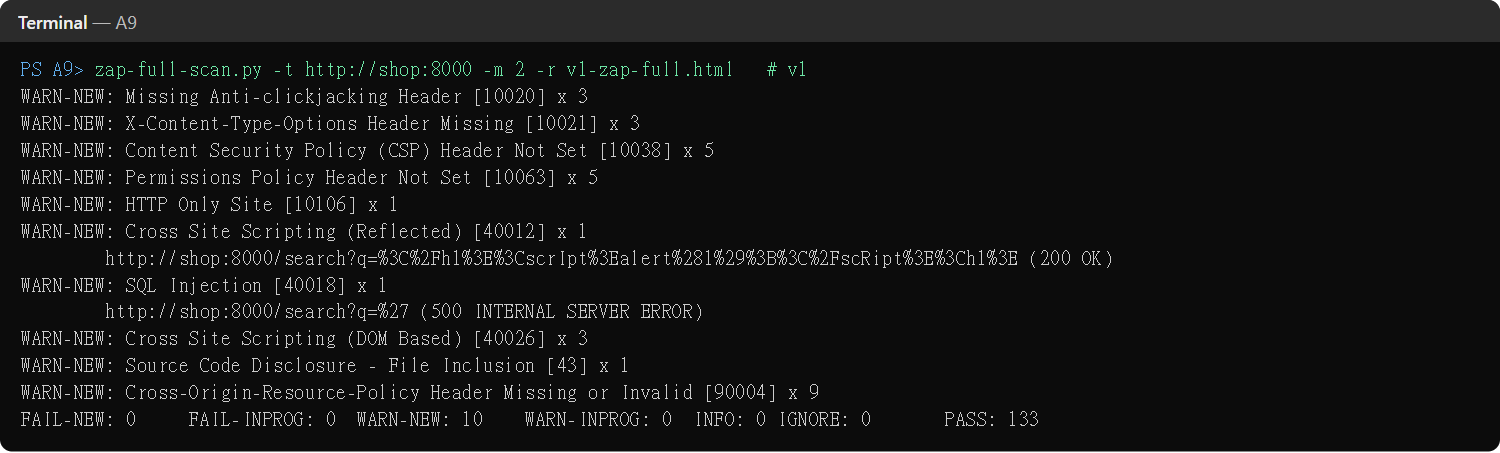
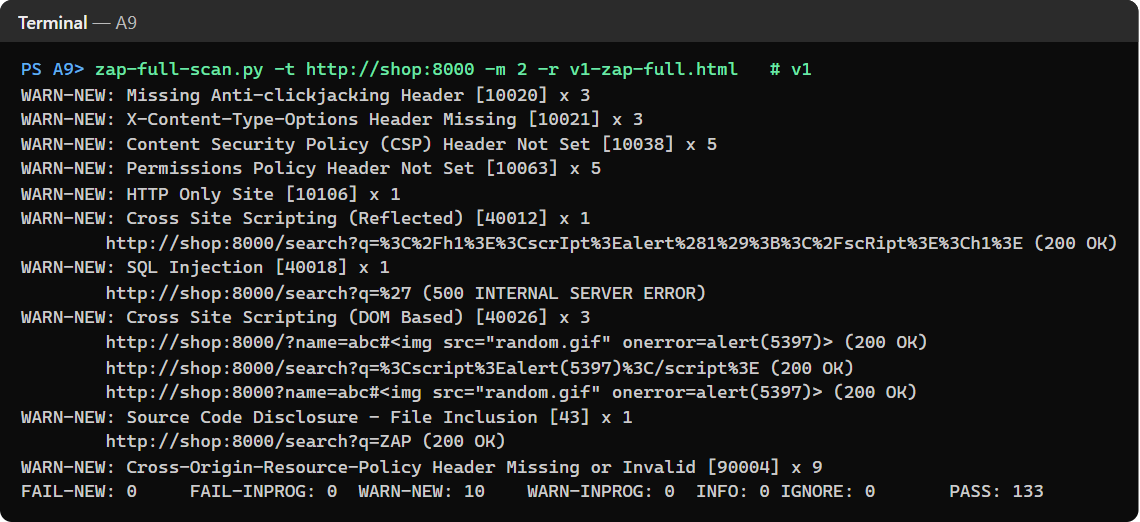
Fix report review points: ZAP and Trivy counts, figures
- Explain all four ZAP High alerts (DOM XSS shares the reflected XSS
  root cause; File Inclusion is a documented false positive) and why
  the report shows 13 alerts but the console 10 WARN-NEW rules.
- Account for the 30 new Trivy alerts behind 506 closed + 186 open.
- Number figures in reading order and fill in references at build time.
- Print terminal captures at readable size, show raw Trivy output
  instead of the JSON summary, crop the PR list and ZAP report.
- Describe the pipeline as 4 gates plus a DAST report job; match the
  YAML excerpt to the workflow (if: always(), separate Trivy gate).

diff --git a/build/build_pdf.py b/build/build_pdf.py
@@ -6,6 +6,7 @@ import subprocess
 import sys
 
 import markdown
+from PIL import Image
 
 HERE = pathlib.Path(__file__).resolve().parent
 SRC = HERE / "report.md"
@@ -35,16 +36,28 @@ table { border-collapse: collapse; width: 100%; margin: 5pt 0 8pt; font-size: 8.
 th, td { border: 1px solid #c8c8c8; padding: 3pt 5pt; vertical-align: top; text-align: left; }
 th { background: #eef1f4; }
 figure { margin: 6pt 0 10pt; text-align: center; break-inside: avoid; }
-figure img { max-width: 100%; max-height: 68mm; border: 1px solid #ccc; }
+figure img { max-width: 100%; max-height: 60mm; border: 1px solid #ccc; }
+figure img.term { width: 100%; max-height: none; border: 0; }
+figure.termfig { max-width: 100%; margin-left: auto; margin-right: auto; }
+.wide img { max-height: 98mm; }
 .pair { display: flex; gap: 6mm; align-items: flex-start; break-inside: avoid; }
 .pair figure { flex: 1 1 0; min-width: 0; }
-.pair figure img { max-height: 70mm; }
+.side { display: flex; gap: 6mm; align-items: flex-start; break-inside: avoid; margin: 3pt 0 8pt; }
+.side > p { flex: 1 1 0; margin: 0; }
+.side figure { flex: 1.4 1 0; margin: 0; }
+.pair figure.termfig { flex: 0 1 auto; margin: 6pt 0 10pt; }
+.pair figure img { max-height: 57mm; }
 figcaption { font-size: 8.3pt; color: #555; margin-top: 2pt; }
 .meta { color: #333; margin-bottom: 8pt; }
 """
 
 # Sections that start on a new page (by heading text prefix).
 NEW_PAGE = ()
+
+# Screenshots rendered by render_term.py from saved command output.
+# Small screenshots that need less than the default figure height.
+HEIGHTS = {"O1-actions-v1-fail": "50mm", "O1-codescanning-semgrep": "50mm", "E-dependabot-prs-2col": "82mm", "O2-zap-report-v1-crop": "40mm", "O1-trivy-action-pr": "52mm", "O1-actions-v2-pass": "46mm", "O1-codescanning-closed": "46mm"}
+TERMINALS = {"A-flake8", "O1-hadolint-trivy-config", "O1-trivy-raw", "O2-zap-v1", "O2-zap-v2"}
 
 
 def main() -> int:
@@ -54,26 +67,42 @@ def main() -> int:
     )
 
     n = {"fig": 0}
+    numbers = {}  # image stem -> figure number, for "Figure {stem}" references in the text
 
     def to_figure(m: re.Match) -> str:
         n["fig"] += 1
-        alt = html.unescape(m.group("alt"))
+        numbers[pathlib.Path(m.group("src")).stem] = n["fig"]
+        alt, src = html.unescape(m.group("alt")), m.group("src")
+        fig, cls = "<figure>", ""
+        if pathlib.Path(src).stem in TERMINALS:
+            # terminal captures: print at 90% of their natural size (captured at 1.5x), so the text stays ~8pt
+            fig = f'<figure class="termfig" style="width:{Image.open(HERE / src).width / 1.5 * 0.9:.0f}px">'
+            cls = ' class="term"'
+        elif pathlib.Path(src).stem in HEIGHTS:
+            cls = f' style="max-height:{HEIGHTS[pathlib.Path(src).stem]}"'
         return (
-            f'<figure><img src="{m.group("src")}" alt="{html.escape(alt)}">'
+            f'{fig}<img src="{src}" alt="{html.escape(alt)}"{cls}>'
             f"<figcaption>Figure {n['fig']}. {html.escape(alt)}</figcaption></figure>"
         )
 
     img = r'<img alt="(?P<alt>[^"]*)" src="(?P<src>[^"]+)"\s*/?>'
-    # two images in one paragraph -> side by side
-    body = re.sub(r"<p>(<img [^>]+>)\s*(<img [^>]+>)</p>",
-                  lambda m: '<div class="pair">' + re.sub(img, to_figure, m.group(1)) + re.sub(img, to_figure, m.group(2))
-                  + "</div>", body)
-    body = re.sub(r"<p>" + img + r"</p>", to_figure, body)
+    # one pass over the document, so figures are numbered in reading order;
+    # two images in one paragraph are placed side by side
+    # a paragraph whose last line is an image -> text and figure side by side
+    def para(m: re.Match) -> str:
+        figs = [to_figure(i) for i in re.finditer(img, m.group("imgs"))]
+        if m.group("text"):
+            return f'<div class="side"><p>{m.group("text")}</p>{figs[0]}</div>'
+        return figs[0] if len(figs) == 1 else '<div class="pair">' + "".join(figs) + "</div>"
+
+    body = re.sub(r"<p>(?:(?P<text>(?:(?!</p>).)*?)<br />\s*)?(?P<imgs>(?:" + img.replace("(?P<alt>", "(?:").replace("(?P<src>", "(?:")
+                  + r"\s*){1,2})</p>", para, body, flags=re.S)
     body = re.sub(
         r"<h2>(\d+\. )",
         lambda m: (f'<h2 class="newpage">{m.group(1)}' if m.group(1) in NEW_PAGE else f"<h2>{m.group(1)}"),
         body,
     )
+    body = re.sub(r"Figure \{([\w-]+)\}", lambda m: f"Figure {numbers[m.group(1)]}", body)
     body = body.replace("<p><strong>Name:</strong>", '<p class="meta"><strong>Name:</strong>', 1)
 
     missing = [s for s in re.findall(r'<img src="([^"]+)"', body) if not (HERE / s).exists()]

diff --git a/build/render_term.py b/build/render_term.py
@@ -33,30 +33,35 @@ SCREENS = {
     "O1-semgrep-local.png": [
         (SEMGREP + "   # v2", "\n".join(read("v2-semgrep.txt").splitlines()[-8:])),
     ],
-    "O1-trivy-summary.png": [
-        ("python scripts/trivy_summary.py evidence/v1-trivy-image.json", read("v1-trivy-summary.txt")),
-        ("python scripts/trivy_summary.py evidence/v2-trivy-image.json", read("v2-trivy-summary.txt")),
-        (TRIVY + "   # v2 gate", "\n".join(read("v2-trivy-image-gate.txt").splitlines()[:9]) + "\n…\n"
+    "O1-trivy-raw.png": [
+        ("trivy image --quiet --severity HIGH,CRITICAL a9-shop:v1   # v1, table output (excerpt: the two totals)",
+         "\n".join(read("v1-trivy-image.txt").splitlines()[44:47]) + "\n…\n"
+         + "\n".join(read("v1-trivy-image.txt").splitlines()[697:700])),
+        (TRIVY + "   # v2 gate (excerpt)", "\n".join(read("v2-trivy-image-gate.txt").splitlines()[1:9]) + "\n…\n"
          + read("v2-trivy-image-gate.txt").splitlines()[-1]),
     ],
     "O2-zap-v1.png": [
         ("zap-full-scan.py -t http://shop:8000 -m 2 -r v1-zap-full.html   # v1",
-         lines("v1-zap-full.txt", "WARN-NEW", "FAIL-NEW", "search?q=%3C%2Fh1", "search?q=%27")),
+         # every WARN-NEW rule, plus the URL lines of the four High alerts (file lines 158-166)
+         "\n".join(l for i, l in enumerate(read("v1-zap-full.txt").splitlines(), 1)
+                   if "WARN-NEW" in l or "FAIL-NEW" in l or i in (158, 160, 162, 163, 164, 166))),
     ],
     "O2-zap-v2.png": [
         ("curl -sI localhost:8000/   # v2", read("v2-headers.txt")),
         ("zap-full-scan.py -t http://shop:8000 -m 2 -r v2-zap-full.html   # v2",
-         lines("v2-zap-full.txt", "WARN-NEW", "FAIL-NEW", "PASS: Cross Site Scripting (Reflected)", "PASS: SQL Injection [")),
+         lines("v2-zap-full.txt", "WARN-NEW", "FAIL-NEW", "PASS: Cross Site Scripting (Reflected)",
+               "PASS: Cross Site Scripting (DOM Based)", "PASS: SQL Injection [",
+               "PASS: Source Code Disclosure - File Inclusion")),
     ],
 }
 
 CSS = """
 body { margin: 0; background: #fff; }
-.term { display: inline-block; min-width: 1000px; background: #0c0c0c; border-radius: 8px; overflow: hidden;
-        font: 13px/1.38 'Cascadia Mono', Consolas, monospace; color: #cccccc; }
+.term { display: inline-block; max-width: 1020px; background: #0c0c0c; border-radius: 8px; overflow: hidden;
+        font: 12px/1.38 'Cascadia Mono', Consolas, monospace; color: #cccccc; }
 .bar { background: #2b2b2b; color: #bbb; font: 12px 'Segoe UI', sans-serif; padding: 6px 12px; }
 .bar b { color: #eee; font-weight: 600; }
-pre { margin: 0; padding: 10px 14px 12px; white-space: pre; }
+pre { margin: 0; padding: 10px 14px 12px; white-space: pre-wrap; font: inherit; }
 .cmd { color: #6ee7a7; } .ps { color: #61afef; }
 """
 

diff --git a/build/report.md b/build/report.md
@@ -8,7 +8,7 @@
 | --- | --- | --- | --- | --- |
 | A | Linting for static analysis | Flake8 with the bandit (security) and bugbear (bug) plugins, locally and as a CI gate | 10 findings → 0 | 2 |
 | E | Software composition analysis | Dependabot alerts, security updates and version updates for pip, Docker and GitHub Actions | 39 open alerts and 16 PRs → 0 open (39 closed as fixed) | 3 |
-| O | Additional DevSecOps practice | **O1:** a 5-gate GitHub Actions pipeline with Semgrep (SAST), Hadolint and Trivy (container) reporting to Code scanning. **O2:** OWASP ZAP DAST against the running app | SAST 8 → 0, fixable image CVEs 279 → 0, ZAP 10 alerts (4 High) → 1 | 4 |
+| O | Additional DevSecOps practice | **O1:** a GitHub Actions pipeline of 4 gates (lint, Semgrep SAST, Hadolint, Trivy) plus a DAST report job, with results in Code scanning. **O2:** OWASP ZAP DAST against the running app | SAST 8 → 0, fixable image CVEs 279 → 0, ZAP 13 alerts (4 High, 1 of them a false positive) → 1 | 4 |
 
 ## 1. Introduction: DevSecOps objectives
 
@@ -20,6 +20,8 @@ DevOps shortened the path from commit to production. DevSecOps makes security tr
 - **Make findings actionable:** results go where developers already work (the pull request, the Security tab) with a severity and a fix.
 
 **Method.** I wrote a small Flask shop (product list, search page, purchase API, SQLite, Gunicorn in Docker) and committed it as a first version would plausibly look: string-built SQL, an HTML page assembled with f-strings, a hard-coded secret, `debug=True`, dependencies pinned in late 2022, and a Dockerfile that runs as root. I committed this **v1** together with the pipeline, so every tool had real defects to find. I then fixed what the tools reported in **v2** and ran the same tools again. All numbers in this report come from those runs.
+
+**Why a purpose-built app.** The code defects in v1 are deliberate, taken from the OWASP Top 10 and common Dockerfile mistakes. Because I know every planted defect, I can check what each tool finds and misses, and confirm each fix by running the same tool again. The tools also found problems I did not plant: 662 known CVEs in the image, pip's own vendored copies of certifi and urllib3, a zlib fix newer than the base image, and one ZAP false positive. The pipeline and Dependabot files do not depend on this app and can be copied into any Python and Docker repository.
 
 ```
  developer ── commit / PR ──► GitHub ──► Actions: lint ─ SAST ─ Dockerfile lint ─ image scan ─► DAST
@@ -64,7 +66,7 @@ The same pinned versions run in the `lint` job of the pipeline, so local and CI 
 | F401 | `import json` unused | Dead code, hides real dependencies | Removed |
 | E501 | 123-character line | Readability; long lines hide logic in review | Wrapped |
 
-**How linting prevents defects.** Linting is the cheapest gate: it runs in under a second, in the editor and in CI, before any build. Four of the ten findings (S608, S105, S201, S104) are real vulnerabilities that a reviewer could miss in a long diff. Linting also enforces a common baseline, so code review can focus on design. Its limit is that each rule sees one line at a time: Flake8 flagged the SQL string but **not** the XSS on the next two lines, because building HTML with an f-string is not a pattern Bandit knows. That gap is why Section 4 adds a SAST tool with data-flow rules.
+**How linting prevents defects.** Linting is the cheapest gate: it runs in under a second, in the editor and in CI, before any build. Five of the ten findings (S608, S105, S201, S104, S108) are real security risks that a reviewer could miss in a long diff. One (S311) is a false positive, and the other four are code-quality issues. Linting also enforces a common baseline, so code review can focus on design. Its limit is that each rule sees one line at a time: Flake8 flagged the SQL string but **not** the XSS on the next two lines, because building HTML with an f-string is not a pattern Bandit knows. That gap is why Section 4 adds a SAST tool with data-flow rules.
 
 ## 3. (E) Software composition analysis: GitHub Dependabot
 
@@ -84,17 +86,17 @@ updates:
 
 ![Dependabot alerts for v1: 39 open alerts on app/requirements.txt, each linked to the pull request that fixes it](../screenshots/E-dependabot-alerts.png) ![Alert #4 (Flask CVE-2023-30861): affected and patched versions, a CVSS v4 score of 8.7 with its base metrics, and the security update PR that fixes it](../screenshots/E-dependabot-alert-cvss.png)
 
-![The 16 Dependabot pull requests: security updates and version updates for pip, plus updates for the Docker base image and the GitHub Actions in the pipeline](../screenshots/E-dependabot-prs.png) ![Grouped version update: Flask, Werkzeug, Jinja2, MarkupSafe, itsdangerous and click in one PR, with release notes and changelog attached](../screenshots/E-dependabot-pr-group.png)
+![The 16 Dependabot pull requests (shown in two columns, newest first): security updates and version updates for pip, plus updates for the Docker base image and the GitHub Actions in the pipeline](../screenshots/E-dependabot-prs-2col.png)
 
 The PR list shows two kinds of pip updates for the same package. **Security updates** go to the *first fixed version* (certifi 2022.9.24 → 2026.10.18, PR #12), the smallest change that closes the alert. **Version updates** go to the *latest version* (certifi → 2026.10.23, PR #8). The `flask-stack` group bundled six packages into one PR (#6), because Flask 3 needs Werkzeug 3 and they cannot be upgraded one at a time.
 
 ![A security update PR: certifi to the first fixed version. Each PR also runs the pipeline (Checks 7), so an upgrade that breaks the build is visible before merging](../screenshots/E-dependabot-pr-certifi.png) ![After v2: 0 open and 39 closed Dependabot alerts, each closed as "Fixed" by the upgrade commit](../screenshots/E-dependabot-closed.png)
 
-**How SCA contributes to supply chain security.** In this shop I wrote about 100 lines of Python, but the image contains thousands of lines of third-party code that I never read. Most known vulnerabilities come from that code. SCA builds an inventory of every dependency and version (the dependency graph, which is the basis of an SBOM) and watches it against advisory databases, *also after release*: a library that was safe when I pinned it in 2022 now has 39 advisories. It turns "is anything we ship known to be vulnerable?" from an unanswerable question into a list with owners and fixes. Dependabot also covered the supply chain of the pipeline itself, by updating the GitHub Actions I use (Section 4.2 shows why that matters).
+**How SCA contributes to supply chain security.** In this shop I wrote about 100 lines of Python, but the image contains thousands of lines of third-party code that I never read. Most known vulnerabilities come from that code. SCA builds an inventory of every dependency and version (the dependency graph, which is the basis of an SBOM) and watches it against advisory databases, *also after release*: a library that was safe when I pinned it in 2022 now has 39 advisories. It turns "is anything we ship known to be vulnerable?" from an unanswerable question into a list with owners and fixes. Dependabot also covered the supply chain of the pipeline itself, by updating the GitHub Actions I use (Section 4.1 shows why that matters).
 
 **How to interpret CVSS scores and suggested upgrades.**
 
-- **The score is the worst case, not my risk.** CVSS rates a vulnerability from 0 to 10 (Low < 4, Medium 4–6.9, High 7–8.9, Critical ≥ 9). The base metrics in Figure 3 explain the 8.7: reachable over the network (AV:N), low complexity (AC:L), no privileges (PR:N), no user interaction (UI:N), high confidentiality impact (VC:H). But the bug only leaks a session cookie when the app uses *permanent* sessions behind a caching proxy. This shop uses neither, so in my environment the real risk is low. CVSS v4 has *environmental* metrics for exactly this adjustment.
+- **The score is the worst case, not my risk.** CVSS rates a vulnerability from 0 to 10 (Low < 4, Medium 4–6.9, High 7–8.9, Critical ≥ 9). The base metrics in Figure {E-dependabot-alert-cvss} explain the 8.7: reachable over the network (AV:N), low complexity (AC:L), no privileges (PR:N), no user interaction (UI:N), high confidentiality impact (VC:H). But the bug only leaks a session cookie when the app uses *permanent* sessions behind a caching proxy. This shop uses neither, so in my environment the real risk is low. CVSS v4 has *environmental* metrics for exactly this adjustment.
 - **Severity sets the order, context sets the urgency.** Reachability (is the vulnerable function used?), exposure (internet-facing or internal?) and exploit availability (is it on CISA's KEV list? what is its EPSS probability?) should be checked before a Critical is treated as an emergency.
 - **Suggested upgrades: smallest safe step first.** The security update is a patch or minor jump and rarely breaks anything. A version update can cross a major version (Flask 2 → 3, urllib3 1 → 2, gunicorn 20 → 26), so it needs the changelog and the test suite. Here the CI run on each PR is that test.
 
@@ -104,7 +106,7 @@ The PR list shows two kinds of pip updates for the same package. **Security upda
 
 ### 4.1 O1: A security pipeline with SAST, Dockerfile linting and image scanning
 
-Every push and pull request runs `.github/workflows/devsecops.yml`. Each job is a gate: a finding fails the job, and the run is red.
+Every push and pull request runs `.github/workflows/devsecops.yml`, which has five jobs. Four of them are **gates**: a finding fails the job, and the run is red. The fifth job, **DAST**, runs ZAP's passive baseline scan with `-I` (do not fail on warnings) and keeps the report as an artifact. It is a report, not a gate, because a passive scan of this lab app over plain HTTP always warns (HTTP Only Site, Section 4.2).
 
 ```yaml
   # simplified excerpt; the full file is .github/workflows/devsecops.yml in the repo
@@ -113,12 +115,19 @@ Every push and pull request runs `.github/workflows/devsecops.yml`. Each job is 
     steps:
       - run: semgrep scan --config p/python --config p/flask --config p/secrets --sarif --output semgrep.sarif --error app scripts
       - uses: github/codeql-action/upload-sarif@v4
+        if: always()     # --error makes the scan step fail on findings; upload the SARIF anyway
   dockerfile:  # Hadolint: Dockerfile best practices
     steps: [ run: docker run --rm -i hadolint/hadolint:v2.12.0 hadolint --failure-threshold warning - < app/Dockerfile ]
-  image-scan:  # Trivy: OS and Python packages in the built image; SARIF to Code scanning, then a gate step
+  image-scan:  # Trivy: all findings to Code scanning, then a separate gate step
     steps:
       - uses: aquasecurity/trivy-action@ed142fd0673e97e23eac54620cfb913e5ce36c25  # v0.36.0, pinned by SHA
+        with: { image-ref: "a9-shop:${{ github.sha }}", format: sarif, output: trivy.sarif }
+      - uses: github/codeql-action/upload-sarif@v4
+        if: always()
+      - uses: aquasecurity/trivy-action@ed142fd0673e97e23eac54620cfb913e5ce36c25  # gate: fixable HIGH/CRITICAL fail
         with: { image-ref: "a9-shop:${{ github.sha }}", severity: "HIGH,CRITICAL", ignore-unfixed: true, exit-code: "1" }
+  dast:        # not a gate: passive ZAP baseline against the built image, report kept as an artifact
+    steps: [ run: zap-baseline.py -t http://shop:8000 -r zap-baseline.html -I, uses: actions/upload-artifact@v7 ]
 ```
 
 ![v1 pipeline run: the lint, SAST, Dockerfile and image-scan gates all fail; the DAST job (Section 4.2) runs and stores its report](../screenshots/O1-actions-v1-fail.png) ![Code scanning, filtered to Semgrep: 8 open alerts on v1, from Error (SQL injection) to Warning (debug mode, binding to all interfaces, raw HTML)](../screenshots/O1-codescanning-semgrep.png)
@@ -127,9 +136,11 @@ Every push and pull request runs `.github/workflows/devsecops.yml`. Each job is 
 
 ![The SQL injection alert: Semgrep shows the tainted line in context and recommends a parameterized query](../screenshots/O1-semgrep-sqli-alert.png) ![Code scanning, Trivy results for v1, sorted by severity: Critical findings in certifi, zlib and perl, each with the file or package it was found in](../screenshots/O1-codescanning-trivy.png)
 
-**Container security with Hadolint and Trivy.** The image is what actually runs, so it was scanned on three levels. Hadolint and `trivy config` checked the Dockerfile itself (no `--no-cache-dir`, shell-form `CMD`, **runs as root**, no `HEALTHCHECK`). Trivy then scanned the built image: **662 known vulnerabilities**, 611 in the Debian 11 packages of the old `python:3.10.8-slim` base and 51 in Python packages, 279 of them with a fix available.
+**Container security with Hadolint and Trivy.** The image is what actually runs, so it was scanned on three levels. Hadolint and `trivy config` checked the Dockerfile itself (no `--no-cache-dir`, shell-form `CMD`, **runs as root**, no `HEALTHCHECK`). Trivy then scanned the built image: **662 known vulnerabilities** of all severities, 611 in the Debian 11 packages of the old `python:3.10.8-slim` base and 51 in Python packages, 279 of them with a fix available. That count comes from Trivy's JSON report of the scan. The table output in Figure {O1-trivy-raw} is filtered to HIGH and CRITICAL, which leaves 174 + 17 = 191.
 
-![Hadolint and trivy config on v1 (2 + 2 Dockerfile findings) and Hadolint on v2 (none)](../screenshots/O1-hadolint-trivy-config.png) ![Trivy image results summarized from its JSON report: v1 has 662 vulnerabilities (279 fixable); v2 has 186, none with a fix available yet, so the gate passes (exit 0)](../screenshots/O1-trivy-summary.png)
+![Hadolint and trivy config on v1 (2 + 2 Dockerfile findings) and Hadolint on v2 (none)](../screenshots/O1-hadolint-trivy-config.png)
+
+![Raw Trivy output. v1: 191 HIGH/CRITICAL vulnerabilities (174 Debian + 17 Python). v2 with the CI gate options (--ignore-unfixed --exit-code 1): 0 fixable findings in every target, exit code 0](../screenshots/O1-trivy-raw.png)
 
 The v2 Dockerfile fixes the image itself, not only the app:
 
@@ -146,13 +157,12 @@ CMD ["gunicorn", "--bind", "0.0.0.0:8000", "--workers", "2", "shop:app"]
 
 Removing pip from the runtime image was a finding of its own: after the upgrades, Trivy still failed on certifi, urllib3 and msgpack, but these were *pip's own vendored copies*, not mine. The running app never calls pip, so deleting it removed the attack surface instead of only patching it.
 
-**Securing the pipeline itself.** In March 2026, attackers force-pushed 76 of the 77 version tags of `aquasecurity/trivy-action` (CVE-2026-33634), so every workflow that used the action by tag ran a credential stealer before the normal scan. I therefore pinned the action to a full commit SHA. When Dependabot later proposed v0.36.0 (PR #3), I checked before accepting it that the new SHA is the commit of the signed `v0.36.0` tag of an immutable release. A security tool is itself a dependency with access to the pipeline.
+**v2 result.** All four gates pass and the DAST job completes. All 8 Semgrep alerts are closed as fixed. Trivy's SARIF upload contains every severity (trivy-action ignores the severity filter for SARIF by default), so Code scanning had 662 open Trivy alerts after v1, and shows **506 closed and 186 open** after v2. That is 692, 30 more than 662, because Code scanning tracks an alert by CVE and package, and the Debian 13 base brings packages that v1 did not have: of the 186 v2 findings, 156 were already open from v1 and 30 are new (662 − 156 = 506 closed). All 186 are Debian packages with no upstream fix yet, so the gate does not fail on them (Section 5).
 
+![v2 pipeline run: all five jobs succeed (the four gates pass, and the DAST job stores its report)](../screenshots/O1-actions-v2-pass.png) ![Code scanning after v2: 0 open and 8 closed Semgrep alerts, closed as fixed by the commit that removed the code](../screenshots/O1-codescanning-closed.png)
+
+**Securing the pipeline itself.** In March 2026, attackers force-pushed 76 of the 77 version tags of `aquasecurity/trivy-action` (CVE-2026-33634), so workflows that used it by tag ran a credential stealer before the scan. I therefore pin the action to a full commit SHA. When Dependabot proposed v0.36.0 (PR #3), I first checked that the new SHA is the commit of the signed `v0.36.0` tag of an immutable release. A security tool is itself a dependency with access to the pipeline.
 ![Dependabot PR #3 proposes trivy-action v0.36.0 as a SHA change. I accepted it only after checking the SHA against the signed tag of the immutable release](../screenshots/O1-trivy-action-pr.png)
-
-**v2 result.** After the fixes, all five gates pass. In Code scanning, all 8 Semgrep alerts are closed as fixed. Trivy closed 506 of its alerts; the 186 still open are the Debian packages without an upstream fix (Section 5).
-
-![v2 pipeline run: all five gates pass](../screenshots/O1-actions-v2-pass.png) ![Code scanning after v2: 0 open and 8 closed Semgrep alerts, closed as fixed by the commit that removed the code](../screenshots/O1-codescanning-closed.png)
 
 ### 4.2 O2: Dynamic testing with OWASP ZAP
 
@@ -164,28 +174,39 @@ docker run --rm --network a9-devsecops_default -v "$PWD/zap:/zap/wrk" zaproxy/za
 ```
 
 The full scan sends attack payloads, so I only ran it against my own local container. The CI `dast` job runs the passive **baseline** scan instead (it does not attack) and keeps the HTML report as a build artifact.
+![ZAP HTML report for v1: 13 alerts (4 High, 3 Medium, 5 Low, 1 Informational)](../screenshots/O2-zap-report-v1-crop.png)
 
-![ZAP report for v1: 4 High, 3 Medium, 5 Low and 1 Informational alert](../screenshots/O2-zap-report-v1.png) ![ZAP on v1, alert list: the reflected XSS payload and the SQL injection that caused a 500 error, plus missing security headers](../screenshots/O2-zap-v1.png)
+![ZAP console summary for v1: 10 WARN-NEW rules, with the URLs of the four High alerts (XSS Reflected, SQL Injection, XSS DOM Based x3, Source Code Disclosure - File Inclusion)](../screenshots/O2-zap-v1.png) ![v2: every response now carries the security headers. The ZAP full scan passes 142 rules, including all four rules that raised High alerts on v1, and leaves 1 alert (HTTP Only Site)](../screenshots/O2-zap-v2.png)
 
-ZAP confirmed with real requests what Semgrep had predicted. `/search?q=</h1><scrIpt>alert(1);</scRipt><h1>` came back executable (reflected XSS), and `/search?q='` produced a 500 error from SQLite (SQL injection). It also found problems that no static tool reported, because they exist only in the HTTP responses: no Content-Security-Policy, no anti-clickjacking header, no `X-Content-Type-Options` and other missing headers.
+**Counting.** The HTML report lists **13 alerts**, and the console summary in Figure {O2-zap-v1} lists **10 WARN-NEW** rules. Both describe the same scan. The console groups alerts by rule ID: rule 90004 covers the three Cross-Origin header alerts (COEP, COOP, CORP), and the Informational alert (Storable and Cacheable Content) is not a warning. So 13 − 2 − 1 = 10.
+
+**The four High alerts.** Each one is either a confirmed defect or a documented false positive:
+
+| ZAP High alert (rule) | What ZAP did | Verdict | Why it is gone in v2 |
+| --- | --- | --- | --- |
+| Cross Site Scripting (Reflected) [40012] | `/search?q=</h1><scrIpt>alert(1);</scRipt><h1>` came back unescaped in the HTML | **Real.** Same defect as Semgrep's `raw-html-format` | `search.html` with Jinja2 autoescaping; rule passes |
+| Cross Site Scripting (DOM Based) [40026] x3 | A real browser opened `/`, typed `<img src=… onerror=alert(5397)>` into the search box, clicked Search, and the alert fired on `/search` | **Real, but the same root cause** as the reflected XSS, not a second bug. v1 has no client-side JavaScript, so the script runs only because the server reflects `q`. I count it as one defect | Same fix; rule passes |
+| SQL Injection [40018] | `/search?q='` returned HTTP 500 (SQLite syntax error) | **Real.** Matches Flake8 S608 and Semgrep `tainted-sql-string` | Bound parameter; rule passes |
+| Source Code Disclosure - File Inclusion [43] | Sent `q=search` (the page's own name, guessing that the app opens a file by that name) and compared the response with a random value: 67% similar, under the 75% threshold | **False positive.** The evidence field is empty, the response contains no source code, and the app never opens a file from user input. The two responses differed only because the short v1 page echoes `q` | Not fixed, because there was nothing to fix. The v2 page is a full template, so the echoed word is a smaller part of the response and stays above the threshold. In a real pipeline I would record this in ZAP's rules file (`43 IGNORE` plus the reason) instead of letting it silently disappear |
+
+ZAP also found problems that no static tool reported, because they exist only in the HTTP responses: no Content-Security-Policy, no anti-clickjacking header, no `X-Content-Type-Options` and other missing headers.
 
 | Defect in v1 | Flake8 | Semgrep | Trivy | ZAP | Fixed in v2 by |
 | --- | --- | --- | --- | --- | --- |
 | SQL injection in `/search` | S608 | tainted-sql-string | – | SQL Injection (High) | Bound parameter |
-| Reflected XSS in `/search` | – | raw-html-format | – | XSS Reflected (High) | `search.html`, Jinja2 autoescaping |
+| Reflected XSS in `/search` | – | raw-html-format | – | XSS Reflected + DOM Based x3 (High) | `search.html`, Jinja2 autoescaping |
+| (no defect: false positive) | – | – | – | File Inclusion (High) | Recorded as a false positive |
 | Debug server, all interfaces | S201, S104 | debug-enabled, bad host | – | – | Env-controlled, Gunicorn in the container |
 | Missing security headers | – | – | – | 5 header alerts | `after_request` adds CSP, nosniff, DENY, ... |
 | Vulnerable libraries and OS packages | – | – | 662 | – | Upgrades, new base image, no pip |
 | Root container, no health check | – | – | DS-0002, DS-0026 | – | `USER shop`, `HEALTHCHECK` |
 
-![v2: every response now carries the security headers, and the ZAP full scan passes 142 rules with 1 remaining alert (HTTP Only Site)](../screenshots/O2-zap-v2.png)
-
-The remaining "HTTP Only Site" alert is expected in this lab: in production, TLS would be terminated by a load balancer or reverse proxy in front of Gunicorn.
+In v2 (Figure {O2-zap-v2}), all four High rules pass. The remaining "HTTP Only Site" alert is expected in this lab: in production, TLS would be terminated by a load balancer or reverse proxy in front of Gunicorn.
 
 ### 4.3 How these steps enhance the pipeline's security posture
 
 - **Defense in depth.** No single tool found everything (table above). Linting caught the hard-coded secret, SAST the XSS data flow, SCA and Trivy the third-party code, ZAP the HTTP-level gaps. Each layer covers the blind spot of another.
-- **Evidence instead of hope.** Two tools that work in different ways (reading code vs. sending requests) agreed on the two High findings, so they were certainly real. ZAP's PASS results on v2 show the fix works at runtime, not just that the warning disappeared.
+- **Evidence instead of hope.** Code-reading and request-sending tools agreed on the SQL injection and the XSS (3 of ZAP's 4 High alerts), so those were certainly real; the fourth had no support and was a false positive. ZAP's PASS results on v2 show the fixes work at runtime.
 - **Gates, not reports.** A red pipeline blocks the merge. v1 could not have reached production unnoticed, and a Dependabot PR that broke the build would also have been stopped.
 - **One place to triage.** Semgrep and Trivy results land in the same Code scanning tab as Dependabot alerts, with history and dismiss reasons, instead of in logs nobody reads.
 - **The pipeline is protected too.** Actions pinned by SHA, updated by Dependabot and verified before merging, with least-privilege `permissions:` per job.
@@ -197,7 +218,7 @@ The remaining "HTTP Only Site" alert is expected in this lab: in production, TLS
 **Limitations and challenges I met:**
 
 1. **Noise.** Trivy reported 662 vulnerabilities on v1 and still 186 on v2. Most are in Debian packages with no fix available yet. Failing the build on all of them would block every release, so the gate uses `--ignore-unfixed` and HIGH/CRITICAL only. The unfixed ones remain a documented residual risk. A smaller base (distroless or Chainguard) would remove most of them.
-2. **False positives need a decision, not silence.** S311 (`random`) and S104 (`0.0.0.0` in the container) are correct by rule but not by context. I kept a justified `# noqa: S311` instead of disabling the rule globally, so the rule still protects the rest of the code.
+2. **False positives need a decision, not silence.** S311 (`random`) is correct by rule but not by context, and ZAP's File Inclusion alert was a heuristic with no evidence. I kept a justified `# noqa: S311` instead of disabling the rule globally, and documented the ZAP false positive (Section 4.2) instead of counting its disappearance as a fix.
 3. **CVSS is not risk.** The 8.7 Flask alert does not apply to an app without permanent sessions (Section 3). Severity alone over-prioritizes some findings and under-prioritizes others.
 4. **Dependabot can flood.** 16 PRs in the first minutes, several overlapping (two certifi PRs, two requests PRs). Groups and a weekly schedule make this manageable. Major-version jumps still need human review.
 5. **DAST coverage is limited.** ZAP only tests what it can reach: there is no login here, and the purchase API is a POST endpoint the spider never calls. A real setup would give ZAP an OpenAPI file and test credentials.
@@ -208,8 +229,6 @@ The remaining "HTTP Only Site" alert is expected in this lab: in production, TLS
 - Flake8: <https://flake8.pycqa.org/> · flake8-bandit: <https://github.com/tylerwince/flake8-bandit> · Bandit rules: <https://bandit.readthedocs.io/>
 - GitHub Dependabot: <https://docs.github.com/en/code-security/dependabot> · `dependabot.yml` options: <https://docs.github.com/en/code-security/dependabot/working-with-dependabot/dependabot-options-reference>
 - CVSS v4.0 specification (FIRST): <https://www.first.org/cvss/v4.0/specification-document> · EPSS: <https://www.first.org/epss/> · CISA KEV: <https://www.cisa.gov/known-exploited-vulnerabilities-catalog>
-- Semgrep: <https://semgrep.dev/docs/> · SARIF upload to Code scanning: <https://docs.github.com/en/code-security/code-scanning/integrating-with-code-scanning/uploading-a-sarif-file-to-github>
-- Hadolint: <https://github.com/hadolint/hadolint> · Trivy: <https://trivy.dev/>
-- trivy-action supply chain compromise: <https://www.aquasec.com/blog/trivy-supply-chain-attack-what-you-need-to-know/> · GHSA-69fq-xp46-6x23: <https://osv.dev/vulnerability/GHSA-69fq-xp46-6x23>
-- OWASP ZAP packaged scans: <https://www.zaproxy.org/docs/docker/full-scan/> · <https://www.zaproxy.org/docs/docker/baseline-scan/>
-- OWASP Top 10: <https://owasp.org/Top10/>
+- Semgrep: <https://semgrep.dev/docs/> · Hadolint: <https://github.com/hadolint/hadolint> · Trivy: <https://trivy.dev/> · SARIF upload to Code scanning: <https://docs.github.com/en/code-security/code-scanning/integrating-with-code-scanning/uploading-a-sarif-file-to-github>
+- trivy-action supply chain compromise: <https://www.aquasec.com/blog/trivy-supply-chain-attack-what-you-need-to-know/> · advisory GHSA-69fq-xp46-6x23
+- OWASP ZAP packaged scans: <https://www.zaproxy.org/docs/docker/full-scan/> · <https://www.zaproxy.org/docs/docker/baseline-scan/> · OWASP Top 10: <https://owasp.org/Top10/>
